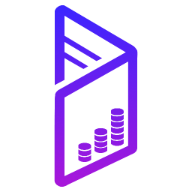
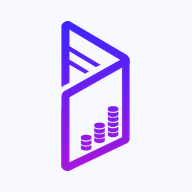
SEO Update 2

Changed region(s): [[0.2812, 0.0, 0.7188, 1.0]]

diff --git a/src/app/manifest.ts b/src/app/manifest.ts
@@ -27,13 +27,24 @@ export default function manifest(): MetadataRoute.Manifest {
     background_color: "#f8f9ff",
     theme_color: "#f8f9ff",
     icons: [
+      /**
+       * Two sets, because Android uses them for different things.
+       *
+       * `any` is drawn as-is (task switcher, install prompt, older launchers).
+       * `maskable` is cropped by the launcher to whatever shape the device
+       * uses — circle, squircle, rounded square — so the mark has to sit
+       * inside a centred "safe zone" circle 80% of the canvas wide, and the
+       * background must reach every edge or the crop reveals bare corners.
+       *
+       * Both sets are now opaque. The previous ones were transparent, which
+       * is why this file could only offer `any`: a transparent maskable icon
+       * gets composited on whatever the launcher chooses, commonly black.
+       * `scripts/generate-icons.mjs` regenerates both from one master.
+       */
       {
         src: "/android-chrome-192x192.png",
         sizes: "192x192",
         type: "image/png",
-        // "any" (not "maskable"): these were generated without the ~20% safe-zone
-        // padding Android crops to for maskable icons, so declaring them maskable
-        // would clip the logo on adaptive-icon launchers.
         purpose: "any",
       },
       {
@@ -41,6 +52,18 @@ export default function manifest(): MetadataRoute.Manifest {
         sizes: "512x512",
         type: "image/png",
         purpose: "any",
+      },
+      {
+        src: "/maskable-icon-192x192.png",
+        sizes: "192x192",
+        type: "image/png",
+        purpose: "maskable",
+      },
+      {
+        src: "/maskable-icon-512x512.png",
+        sizes: "512x512",
+        type: "image/png",
+        purpose: "maskable",
       },
     ],
   };

diff --git a/docs/SEO.md b/docs/SEO.md
@@ -351,6 +351,116 @@ verification step below checks this automatically.
 
 ---
 
+## Reading Search Console: which "errors" are not errors
+
+Search Console's Page Indexing report lists every URL Google did **not** index,
+including every URL you deliberately told it not to index. Rows in that report
+are statuses, not defects. Three separate reports from this site have been
+escalated as bugs when two of them were the system working correctly.
+
+Check this table before "fixing" anything the report surfaces.
+
+| Report row | URLs here | Verdict |
+| --- | --- | --- |
+| **Page with redirect** | `http://expendesk.com/`, `https://expendesk.com/` | **Correct — do not fix.** The apex 308-redirects to `www`, which is the entire canonical strategy. Google excludes the source of a redirect and indexes the destination. Removing the redirect would split ranking signals across two hostnames. |
+| **Excluded by 'noindex' tag** | `/resources`, `/resources/case-studies`, `/resources/whitepapers`, `/solutions` | **Correct — do not fix.** All four are "Coming Soon" placeholders containing a single sentence. The tag is deliberate (`robots: { index: false, follow: true }`). Indexing near-empty pages is a quality negative, burns crawl budget, and Google would likely refuse them anyway as "Crawled – currently not indexed". Remove the tag in the same commit that adds real content, never before. |
+| **Video indexing / unsupported format** | `feat-video.mkv` | **A real bug.** See Round 4 — the file 404s and `.mkv` is not a browser-playable container. |
+
+### The rows that *would* matter
+
+If any of these appear for `https://www.expendesk.com/` or another page that is
+meant to rank, they are worth acting on:
+
+- **"Discovered – currently not indexed"** — Google knows the URL exists but has
+  not crawled it. Usually a crawl-budget/authority signal on a young domain.
+  Request indexing and build inbound links.
+- **"Crawled – currently not indexed"** — Google fetched the page and chose not
+  to index it. A content-quality judgement, not a technical fault.
+- **"Duplicate, Google chose a different canonical"** — the declared canonical is
+  being overridden. On this site that would most likely mean the `*.vercel.app`
+  copy is winning, which `next.config.ts` and the self-referencing canonicals
+  are designed to make impossible. Investigate immediately if it appears.
+- **"Blocked by robots.txt"** or **"noindex" on a page that should rank** — a
+  genuine misconfiguration. `npm run verify:seo` plus a live header check will
+  confirm.
+
+### Rule of thumb
+
+An exclusion is a defect only when the excluded URL is one you *want* indexed.
+For every other row, Search Console is reporting that your instructions were
+received and followed.
+
+---
+
+## Icons and favicon (2026-08-25)
+
+Regenerate the whole set with:
+
+```bash
+npm run icons     # node scripts/generate-icons.mjs
+npm run build     # picks up the new content hashes
+```
+
+### What was broken
+
+The set was hand-exported once and had three defects, none visible without
+inspecting pixels:
+
+| File | Defect | Consequence |
+| --- | --- | --- |
+| `src/app/apple-icon.png` | 87% transparent, fully transparent corners | iOS does not support alpha in home-screen icons — it composites transparency to **black**. Adding Expendesk to an iPhone home screen produced a violet mark on a black square. |
+| `public/android-chrome-*.png` | transparent, edge-to-edge | `manifest.ts` could only declare `purpose: "any"`; adaptive-icon launchers letterboxed instead of filling the shape. |
+| `src/app/icon0.png` | peak alpha 221, never fully opaque | the 16px tab favicon rendered washed out. |
+
+### The rule that was being missed
+
+Transparency is correct for some icons and wrong for others:
+
+- **Browser tab icons** — `favicon.ico`, `icon0.png`, `icon1.png` — **transparent**.
+  Tab strips are light or dark depending on theme; a baked-in plate looks like a
+  sticker on a dark tab.
+- **Apple touch icon** — **opaque, always.** iOS renders alpha as black and adds
+  its own rounded corners, so the source must be a full-bleed opaque square.
+- **Android maskable** — **opaque, full-bleed**, mark confined to the centred
+  safe-zone circle (80% of canvas). The launcher crops to an arbitrary shape, so
+  bare corners or an oversized mark both fail.
+
+### The master
+
+`brand/expendesk-mark-master.png` — the isometric symbol, 512x512, transparent.
+`brand/` is not served by Next and is never written by the generator, which is
+what makes regeneration idempotent. The first version of the script read its
+alpha master from `public/android-chrome-512x512.png`, one of its own outputs;
+a second run would have baked an opaque plate into the tab icons.
+
+**Do not use `public/expendesk-mark.jpg` as an icon source.** Despite the name it
+is the *wordmark* — "ExpenDesk" set in type on a white circle, sized for a social
+avatar. Generating icons from it yields a 180px square of unreadable
+four-pixel-tall lettering.
+
+### Known limitation: 16px legibility
+
+The symbol is 222x484 after trimming — an aspect ratio of about 0.46 — with fine
+interior linework (the coin stacks and inner rules). Scaled into a 16x16 canvas
+it fills the full height but occupies only **7 pixels of width**, and the
+interior detail is gone.
+
+That is inherent to the mark, not a generation fault; the icon is as faithful as
+16px allows. The only real fix is a **simplified square glyph** drawn
+specifically for small sizes — a designer's call, not something to approximate
+here. At 32px and 48px the mark reads correctly, which covers the Google Search
+result favicon (read at 48px) and hi-DPI tabs.
+
+### An SVG favicon is deliberately absent
+
+`icon.svg` would scale perfectly and is standard practice, but the brand mark
+exists here only as raster. Hand-tracing a company's logo produces something
+subtly wrong that then propagates everywhere. Ask the designer for the original
+vector and drop it in at `src/app/icon.svg` — Next picks it up automatically, no
+code change needed.
+
+---
+
 ## Actions still required
 
 The code is deployed-ready, but **indexing will not fix itself**. Nothing in
